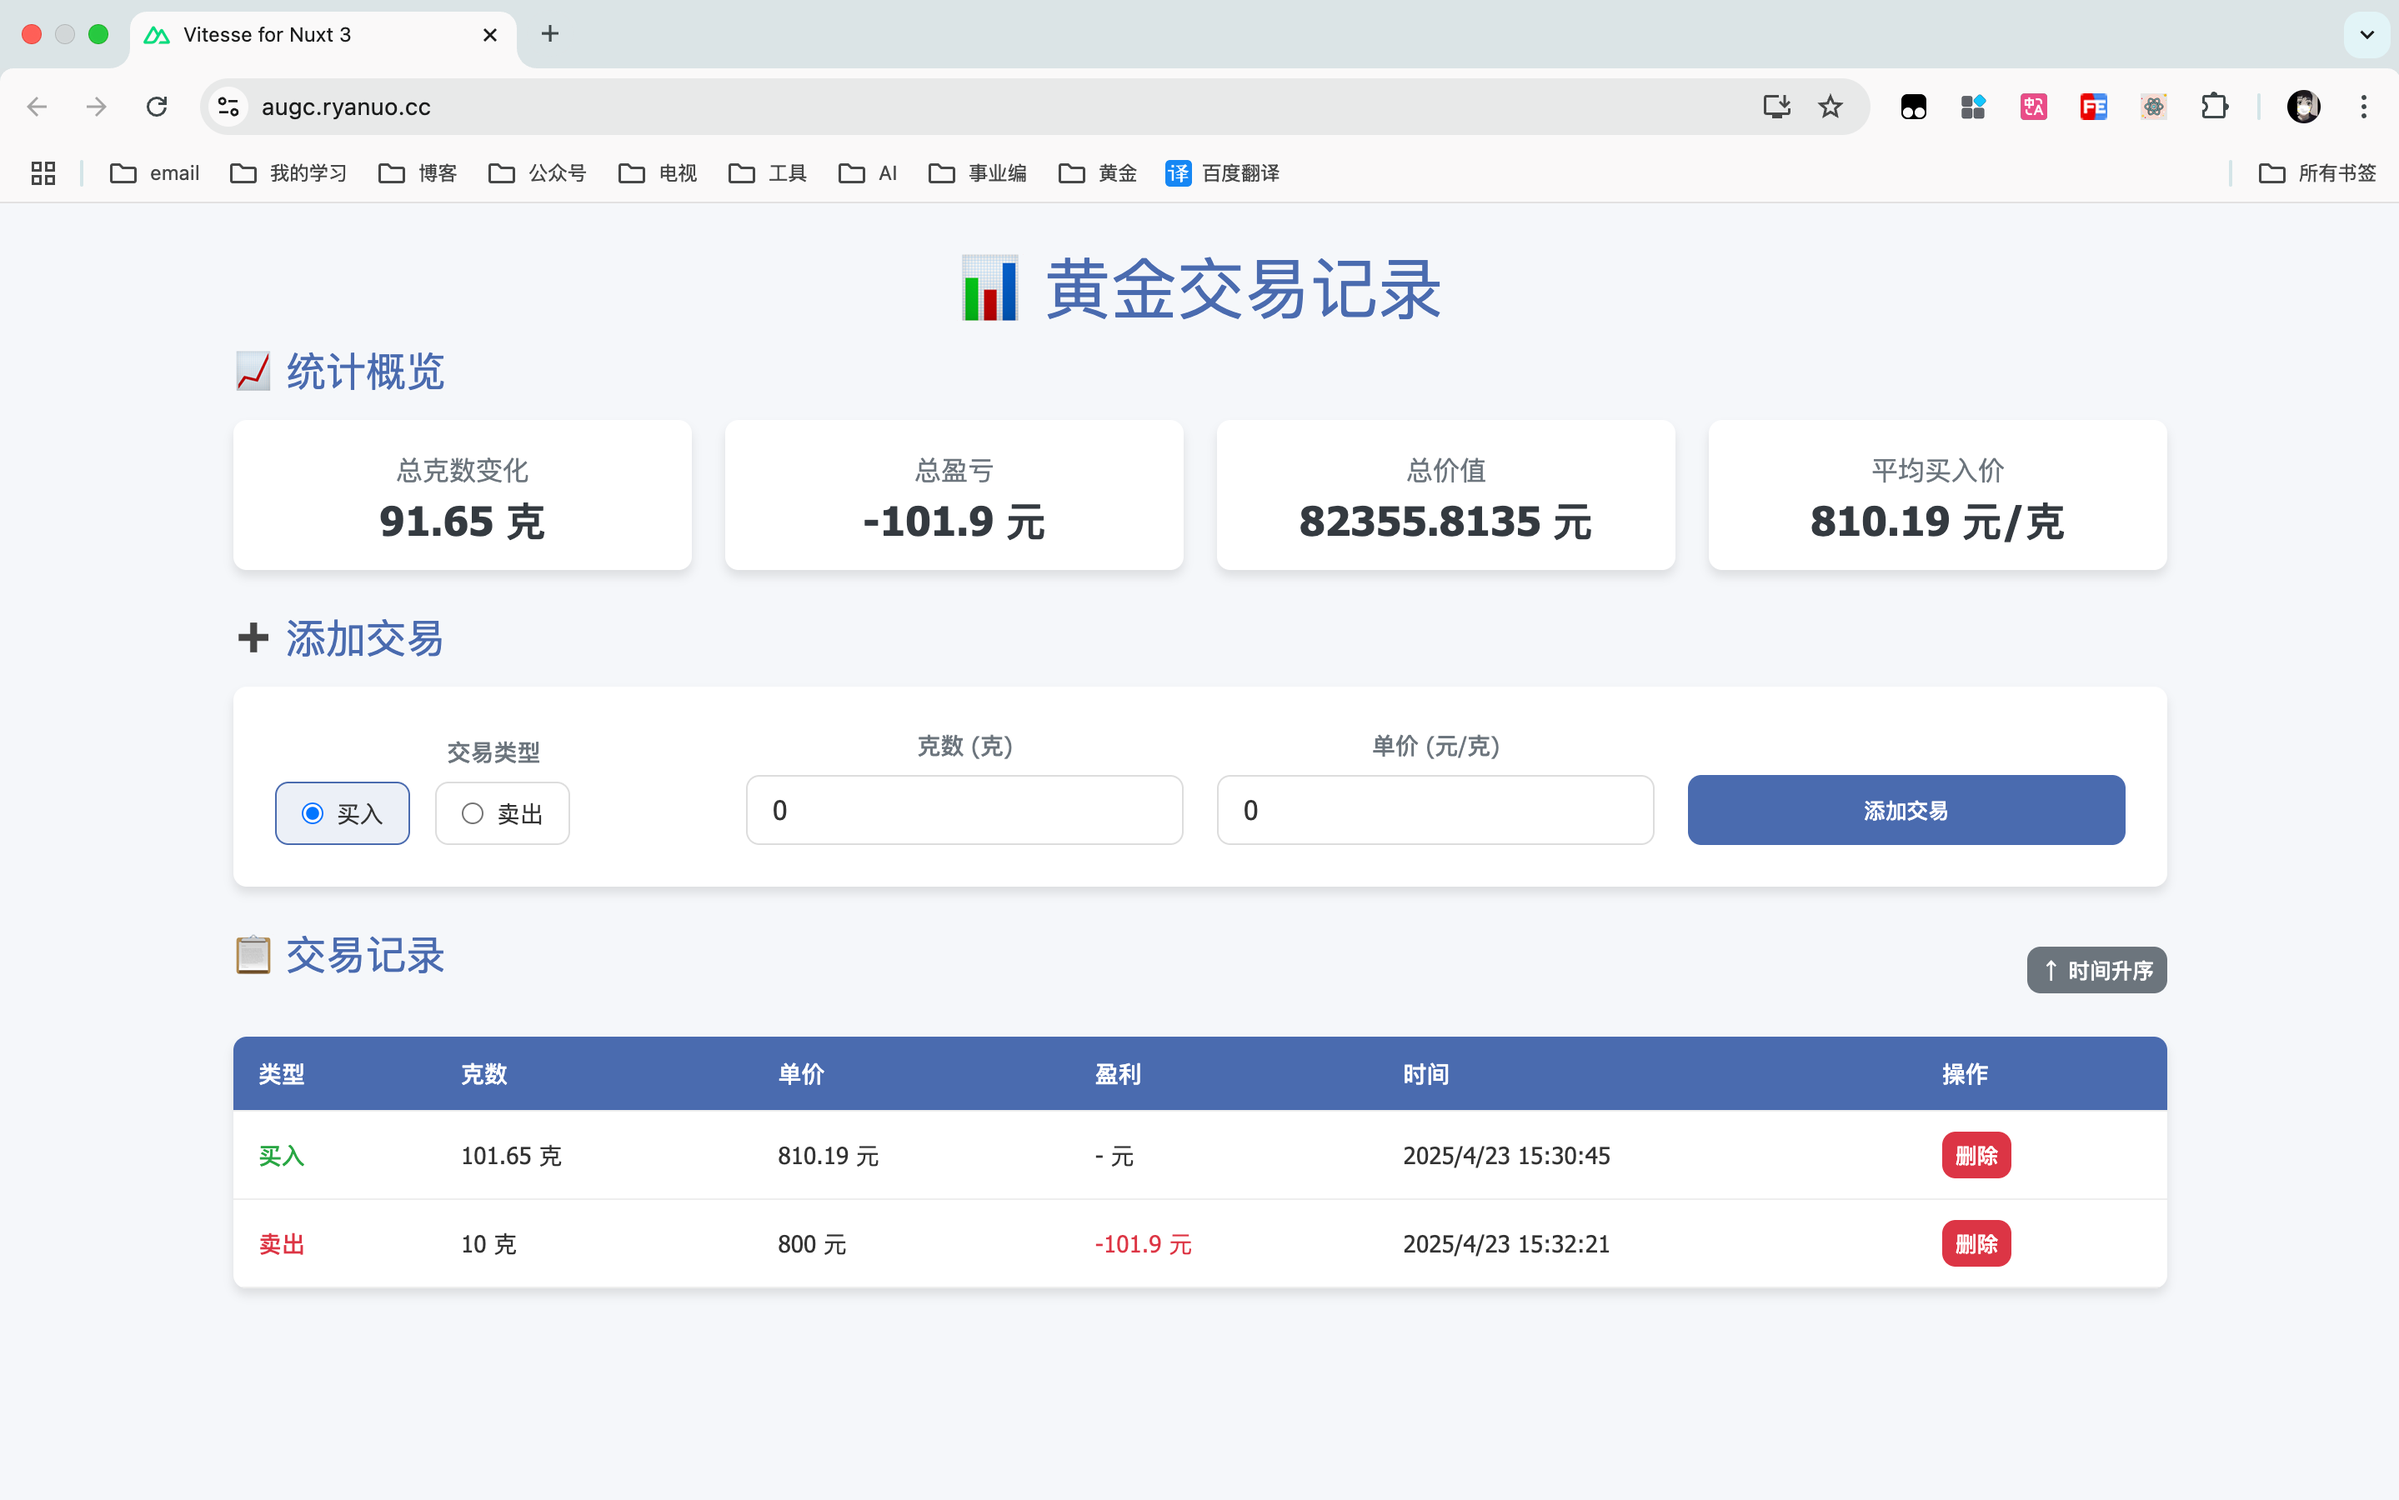
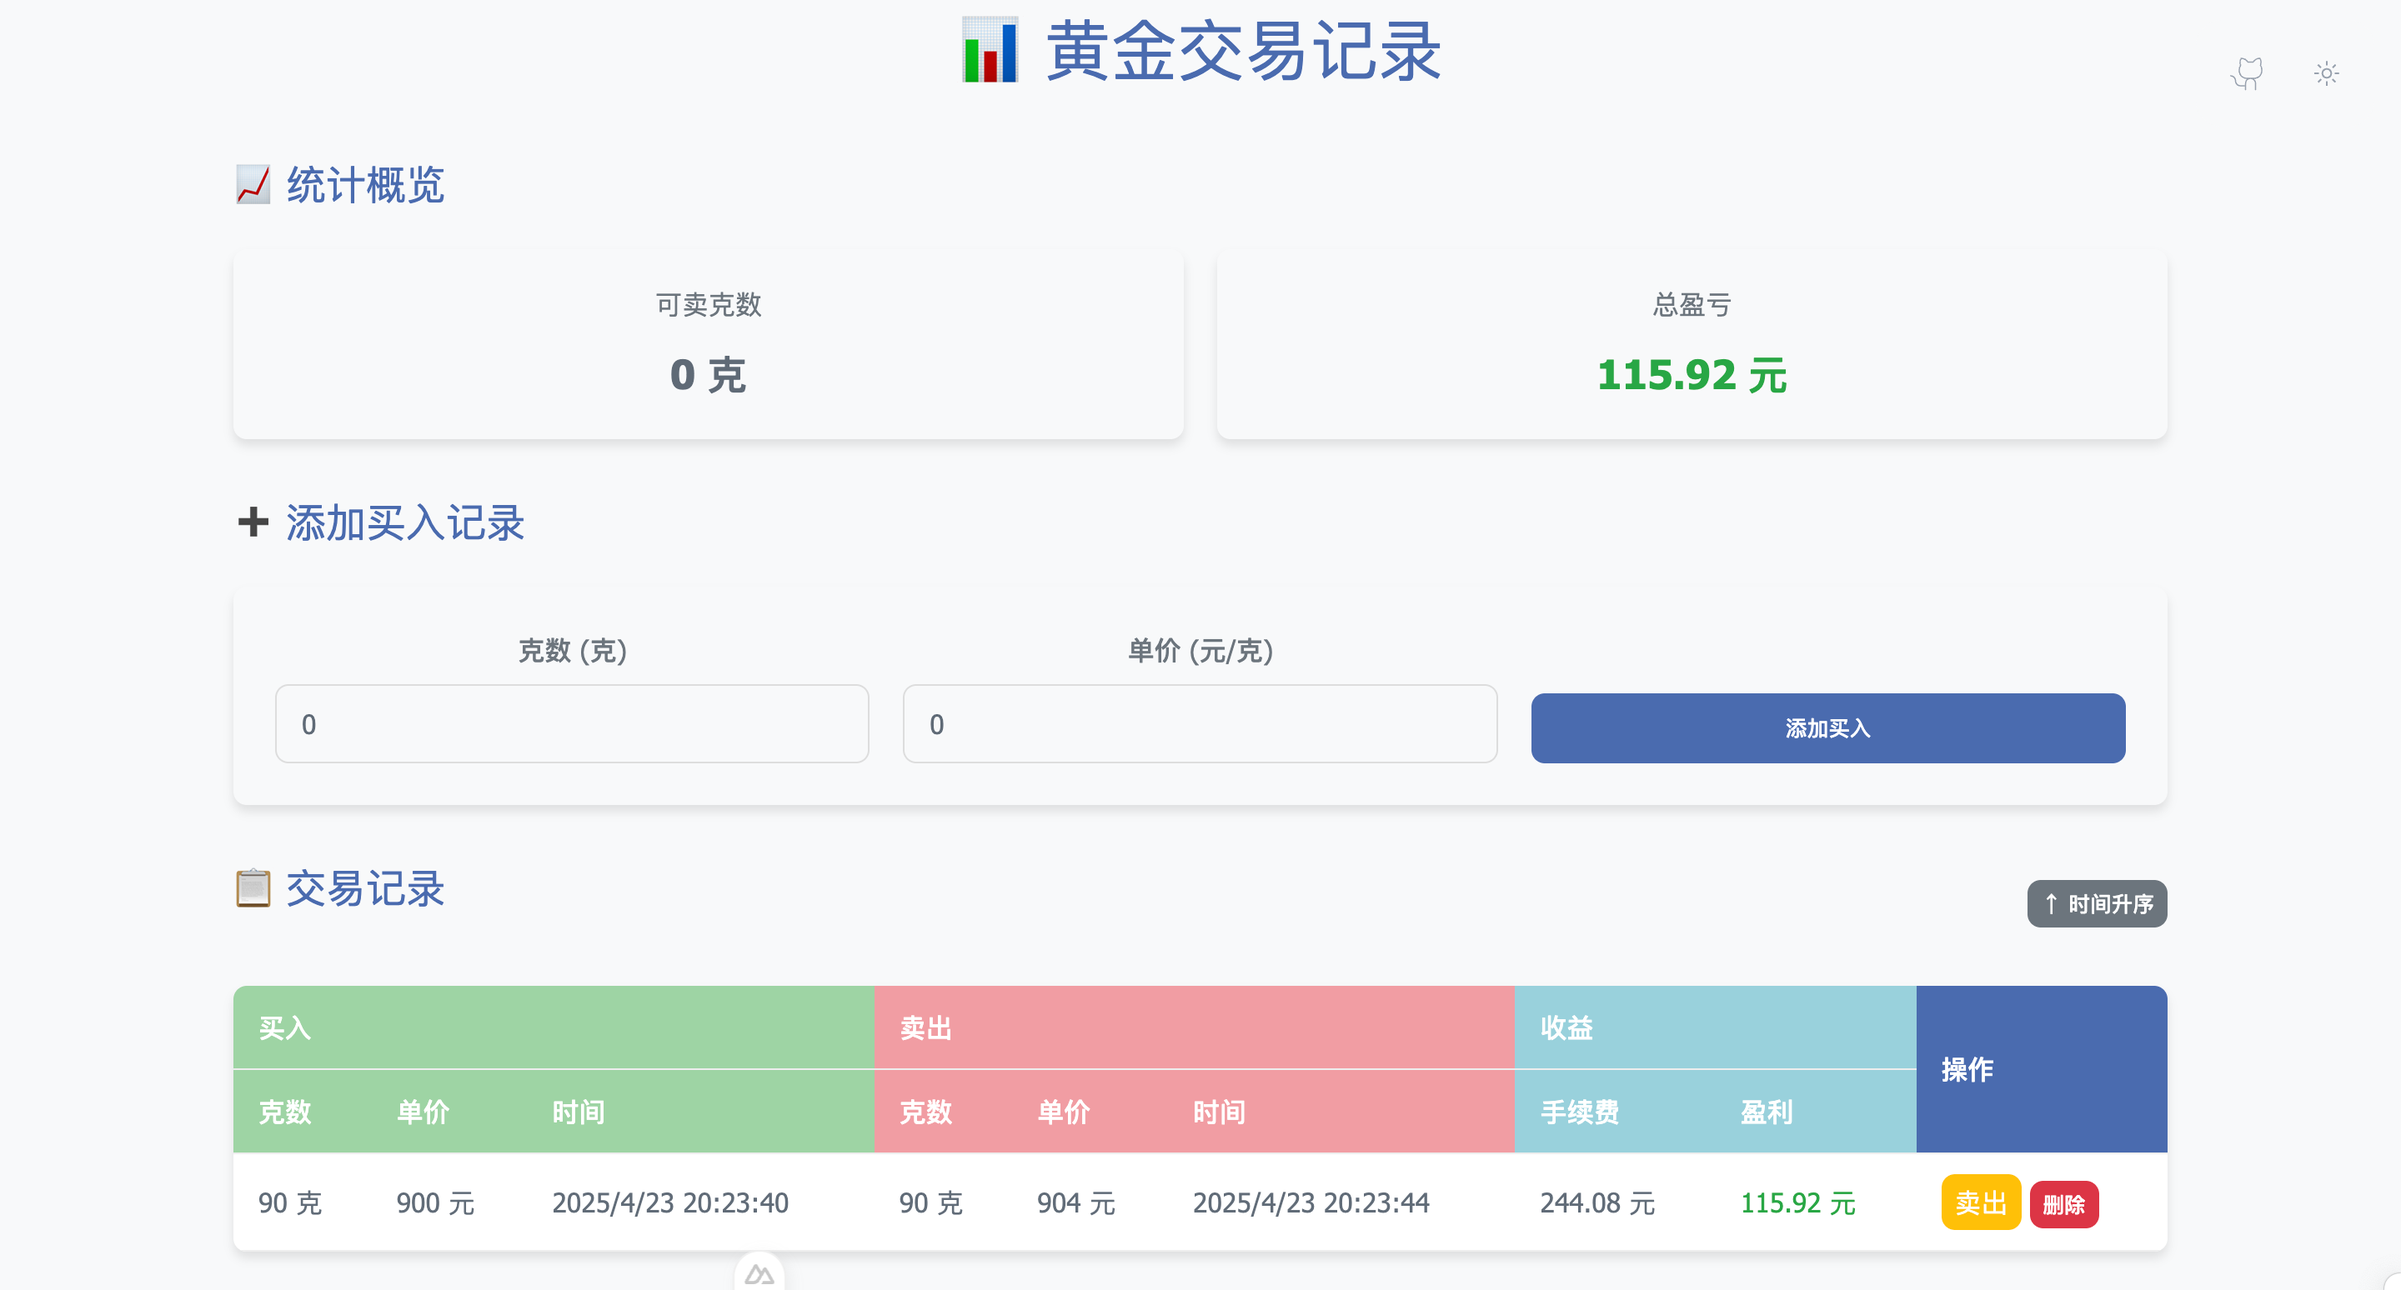
docs(README): 更新项目介绍和功能说明
- 移除了总价值计算功能的说明
- 调整了实时统计功能的描述
- 删除了项目结构部分
- 更新了截图

diff --git a/README.md b/README.md
@@ -1,6 +1,6 @@
 # 黄金交易计算器
 
-这是一个基于 Vue 3 的黄金交易记录和统计应用。用户可以记录买入和卖出的交易，并实时计算总克数变化、总盈亏和总价值。
+这是一个基于 Vue 3 的黄金交易记录和统计应用。用户可以记录买入和卖出的交易，并实时计算可卖出的克数、总盈亏。
 
 ## 功能
 
@@ -8,7 +8,6 @@
 - **实时统计**：
   - 总克数变化
   - 总盈亏
-  - 总价值
 - **本地存储**：交易记录会保存在浏览器的本地存储中，刷新页面后数据不会丢失。
 
 ## 技术栈
@@ -41,14 +40,6 @@
 
 4. 打开浏览器访问 `http://localhost:3000`。
 
-## 项目结构
-
-```
-/app
-  /components
-    AugCalc.vue  # 主组件，包含交易记录和统计功能
-/README.md       # 项目说明文件
-```
 
 ## 截图
 
